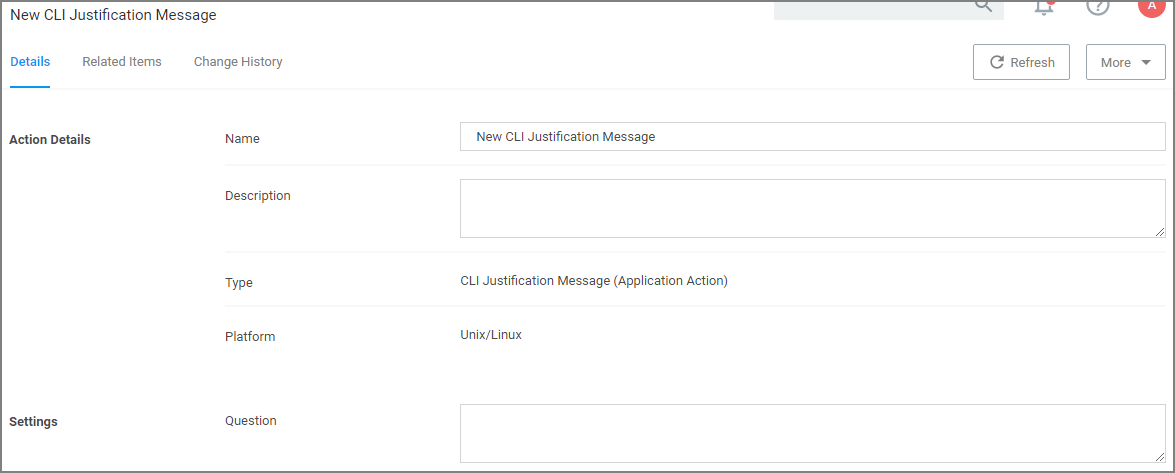
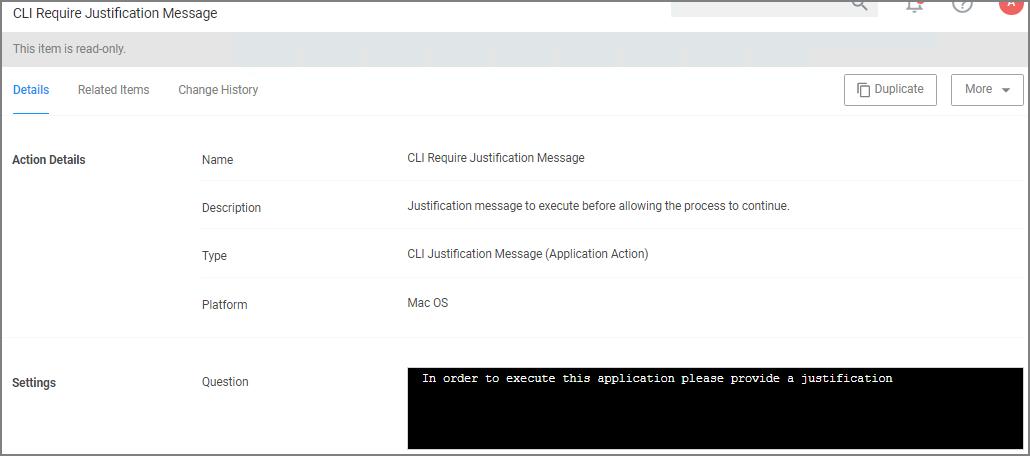
#239621: CLI Require Justification Message topic re-enabled and updated

diff --git a/admin/actions/nix/cli-just-msg.md b/admin/actions/nix/cli-just-msg.md
@@ -1,10 +1,9 @@
-[title]: # (CLI Justification Message)
+[title]: # (CLI Require Justification Message)
 [tags]: # (actions,*nix)
 [priority]: # (2)
-[display]: # (none)
-# CLI Justification Message Action
+# CLI Require Justification Message Action
 
-The CLI Justification Message action can be used to provide a customized multi-line justification question to the user.
+The CLI Require Justification Message action can be used to provide a customized multi-line justification question to the user.
 
 ![cli justification](images/cli-just-msg.png "CLI Justification Message Action page")
 

diff --git a/admin/actions/nix/index.md b/admin/actions/nix/index.md
@@ -7,5 +7,6 @@ The following Unix/Linux specific action topics are available:
 
 * [Add to Group Action](add-to-group.md)
 * [Adjust Environment Variable Action](adj-env-var.md)
+* [CLI Require Justification Message](cli-just-msg.md)
 * [Display User Message Action](display-user-msg.md)
 * [Run As User Action](run-as-user.md)
